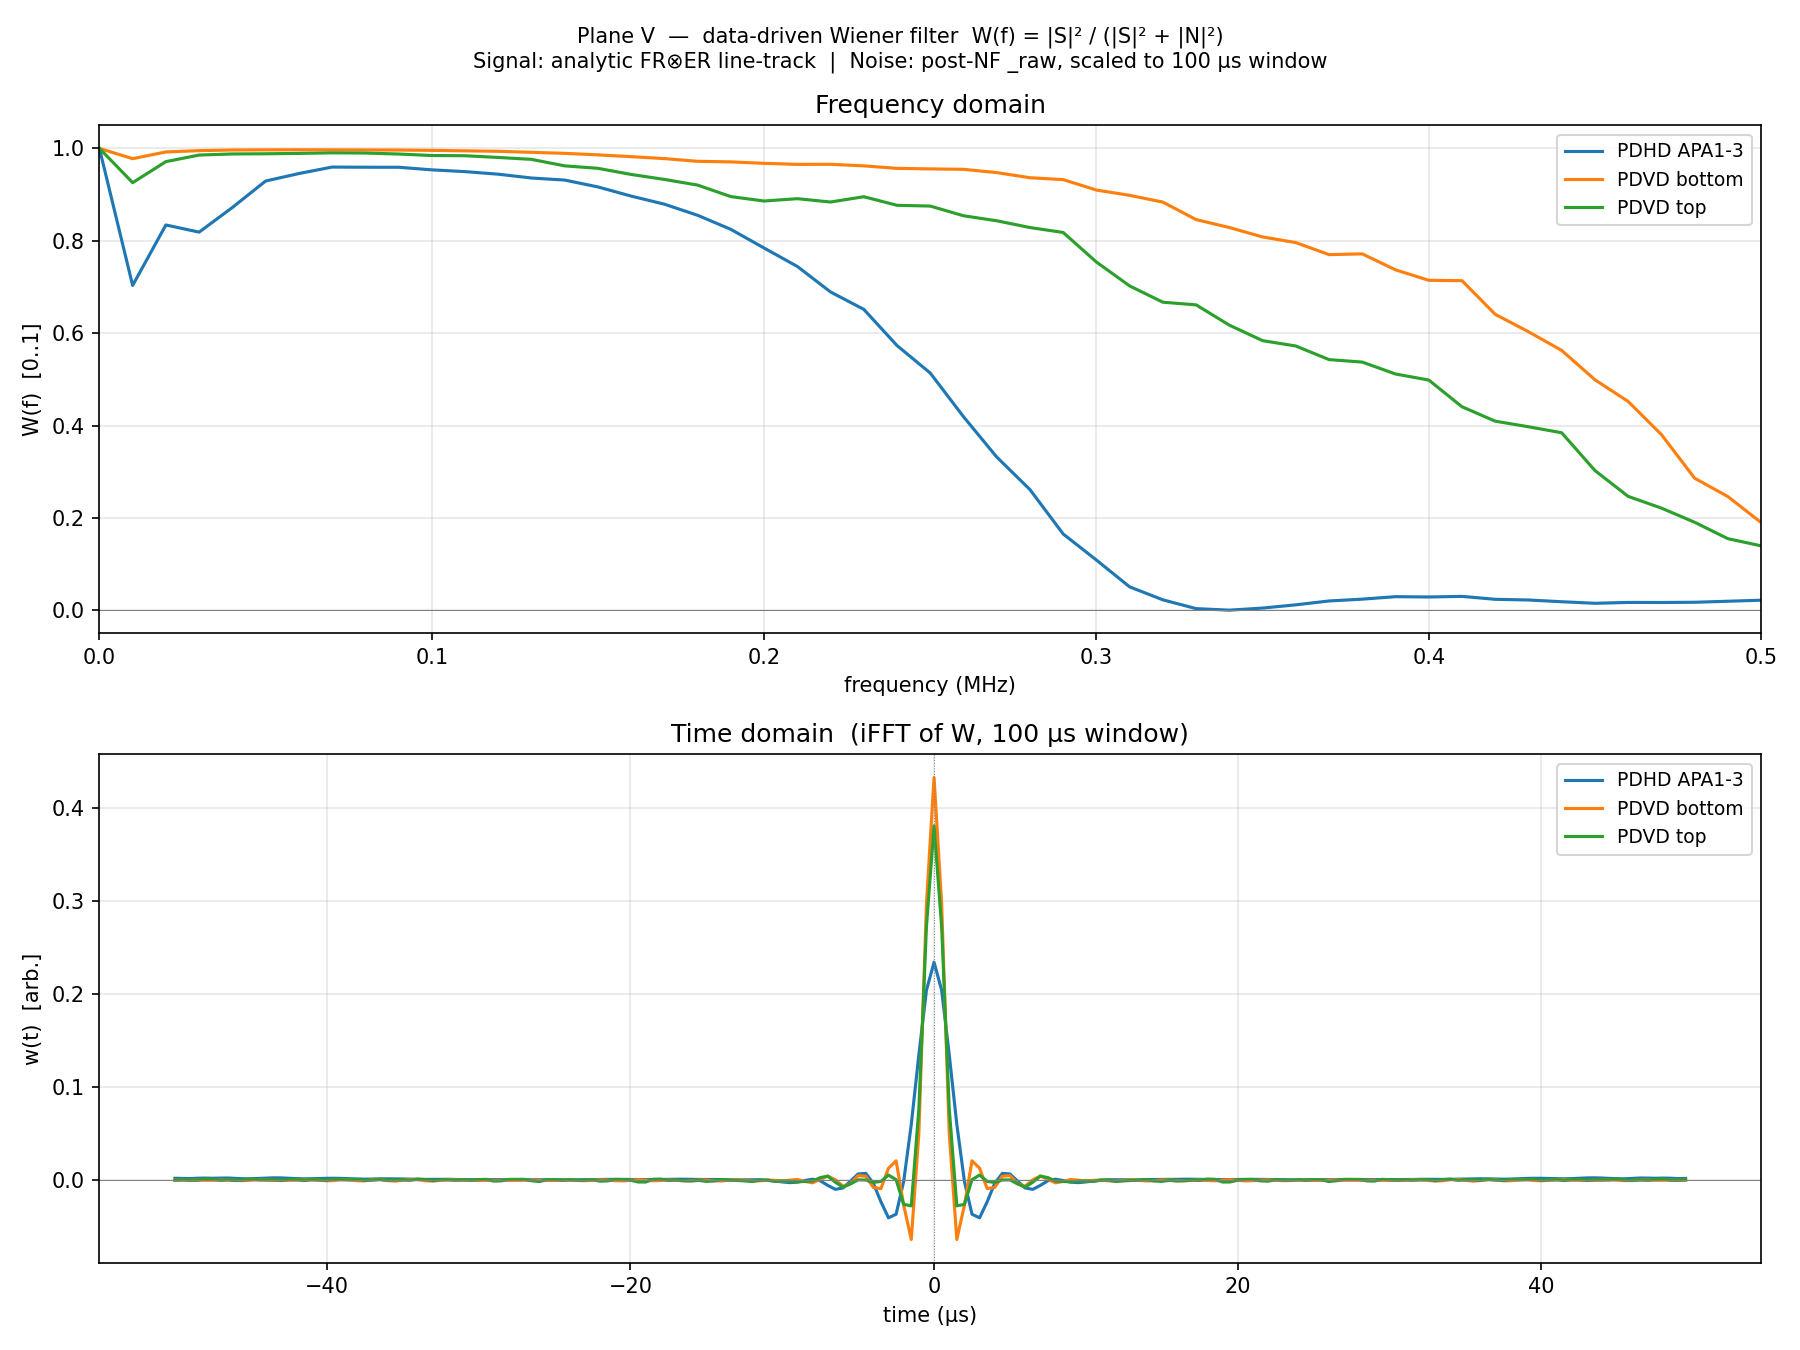
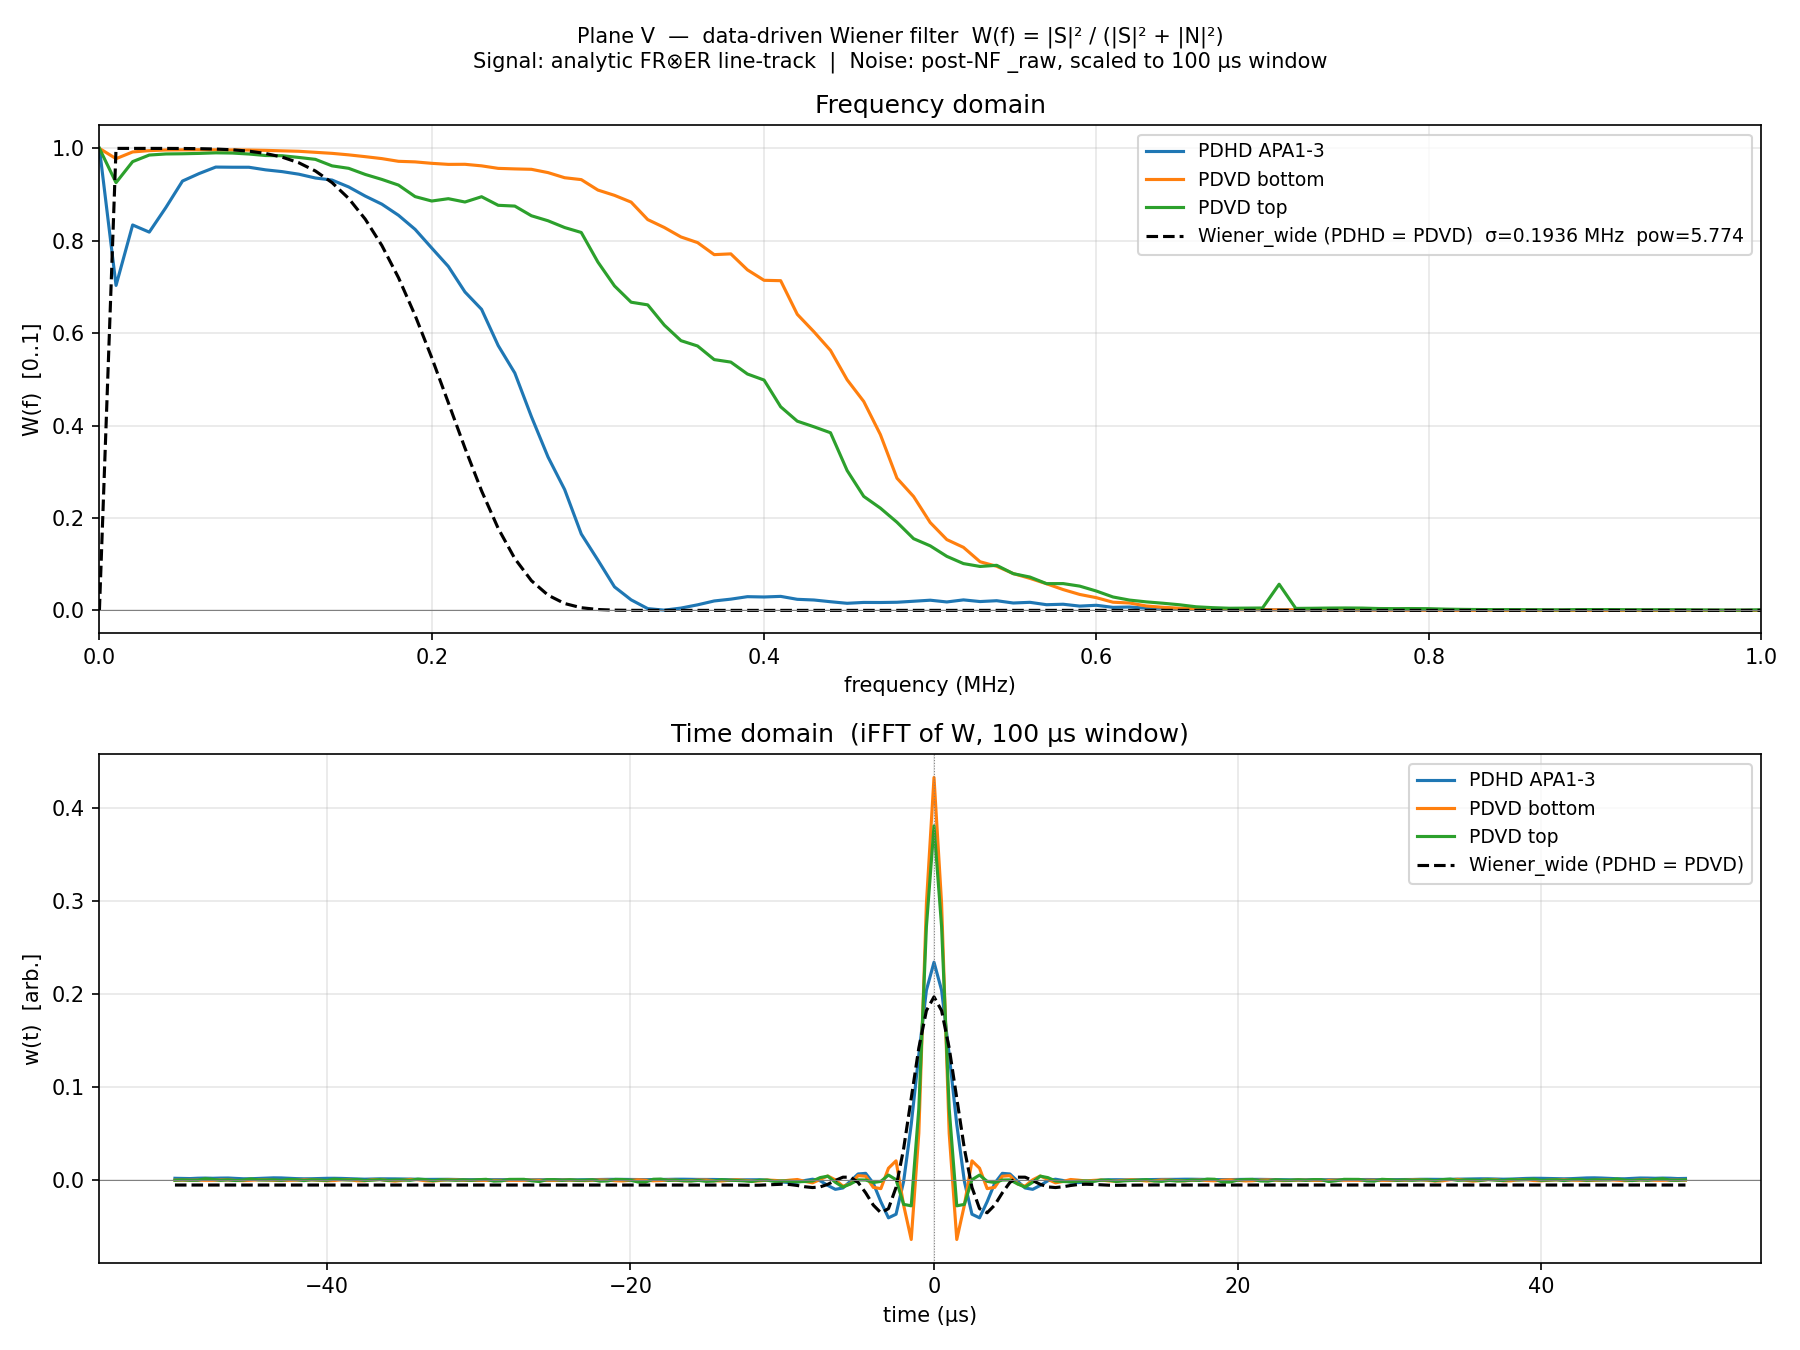
pdvd/sp_plot/wiener_filter_construct: extend to full Nyquist + Wiener_wide overlay
- Frequency axis extended to 1 MHz (full Nyquist for 500 ns tick; was 0.5 MHz)
- Overlay analytic PDHD/PDVD Wiener_wide filter (dashed black) on both
  frequency and time-domain panels for each plane (U: σ=0.187 MHz pow=5.05,
  V: σ=0.194 MHz pow=5.77); both detectors share identical wide-filter params

diff --git a/pdvd/sp_plot/wiener_filter_construct.py b/pdvd/sp_plot/wiener_filter_construct.py
@@ -41,8 +41,8 @@ Outputs (same directory as this script):
   wiener_filter_V.png
 
 Each PNG has:
-  Top panel    — W(f) vs f (0..0.5 MHz), all three detectors.
-  Bottom panel — w(t) = iFFT[W(f)] vs t (±50 µs), all three detectors.
+  Top panel    — W(f) vs f (0..1 MHz), all three detectors + PDHD Wiener_wide overlay.
+  Bottom panel — w(t) = iFFT[W(f)] vs t (±50 µs), all three detectors + Wiener_wide iFFT.
 """
 
 import os, sys
@@ -81,6 +81,22 @@ NOISE_ROOT = {
 
 # Only the three detectors we have noise for (no uBooNE).
 DETECTORS = [d for d in TR_DETECTORS if d['label'] in NOISE_ROOT]
+
+# PDHD Wiener_wide parameters per plane (from pdhd/sp-filters.jsonnet lines 70-81).
+# Note: PDVD and PDHD share the same wide-Wiener σ/power — the overlay
+# is labelled "Wiener_wide (PDHD = PDVD)" to reflect this.
+WIENER_WIDE = {
+    0: {'sigma': 0.186765, 'power': 5.05429},   # U
+    1: {'sigma': 0.1936,   'power': 5.77422},   # V
+}
+
+
+def wiener_wide_analytic(f_mhz, plane_id):
+    """Analytic PDHD/PDVD Wiener_wide filter on the given frequency grid."""
+    p = WIENER_WIDE[plane_id]
+    H = np.exp(-0.5 * (f_mhz / p['sigma']) ** p['power'])
+    H[0] = 0.0   # flag=True: zero DC bin
+    return H
 
 
 # ---------------------------------------------------------------------------
@@ -199,10 +215,21 @@ def make_plot(plane_label, plane_id, results, outpath):
         axes[0].plot(r['f_short'], r['W'],   color=r['color'], lw=1.5, label=r['label'])
         axes[1].plot(r['t'],       r['w_t'], color=r['color'], lw=1.5, label=r['label'])
 
+    # Overlay analytic PDHD Wiener_wide (identical to PDVD wide).
+    f_ref = results[0]['f_short']
+    H_wide = wiener_wide_analytic(f_ref, plane_id)
+    h_wide_t = np.fft.fftshift(np.fft.irfft(H_wide, n=N_SHORT))
+    t_ref    = results[0]['t']
+    p = WIENER_WIDE[plane_id]
+    wide_lbl = (f'Wiener_wide (PDHD = PDVD)  '
+                f'σ={p["sigma"]:.4f} MHz  pow={p["power"]:.3f}')
+    axes[0].plot(f_ref,   H_wide,   color='k', lw=1.5, ls='--', label=wide_lbl)
+    axes[1].plot(t_ref,   h_wide_t, color='k', lw=1.5, ls='--', label='Wiener_wide (PDHD = PDVD)')
+
     axes[0].set_xlabel('frequency (MHz)')
     axes[0].set_ylabel('W(f)  [0..1]')
     axes[0].set_title('Frequency domain')
-    axes[0].set_xlim(0, 0.5)
+    axes[0].set_xlim(0, 1.0)
     axes[0].set_ylim(-0.05, 1.05)
     axes[0].axhline(0, color='gray', lw=0.5)
     axes[0].grid(True, alpha=0.3)
